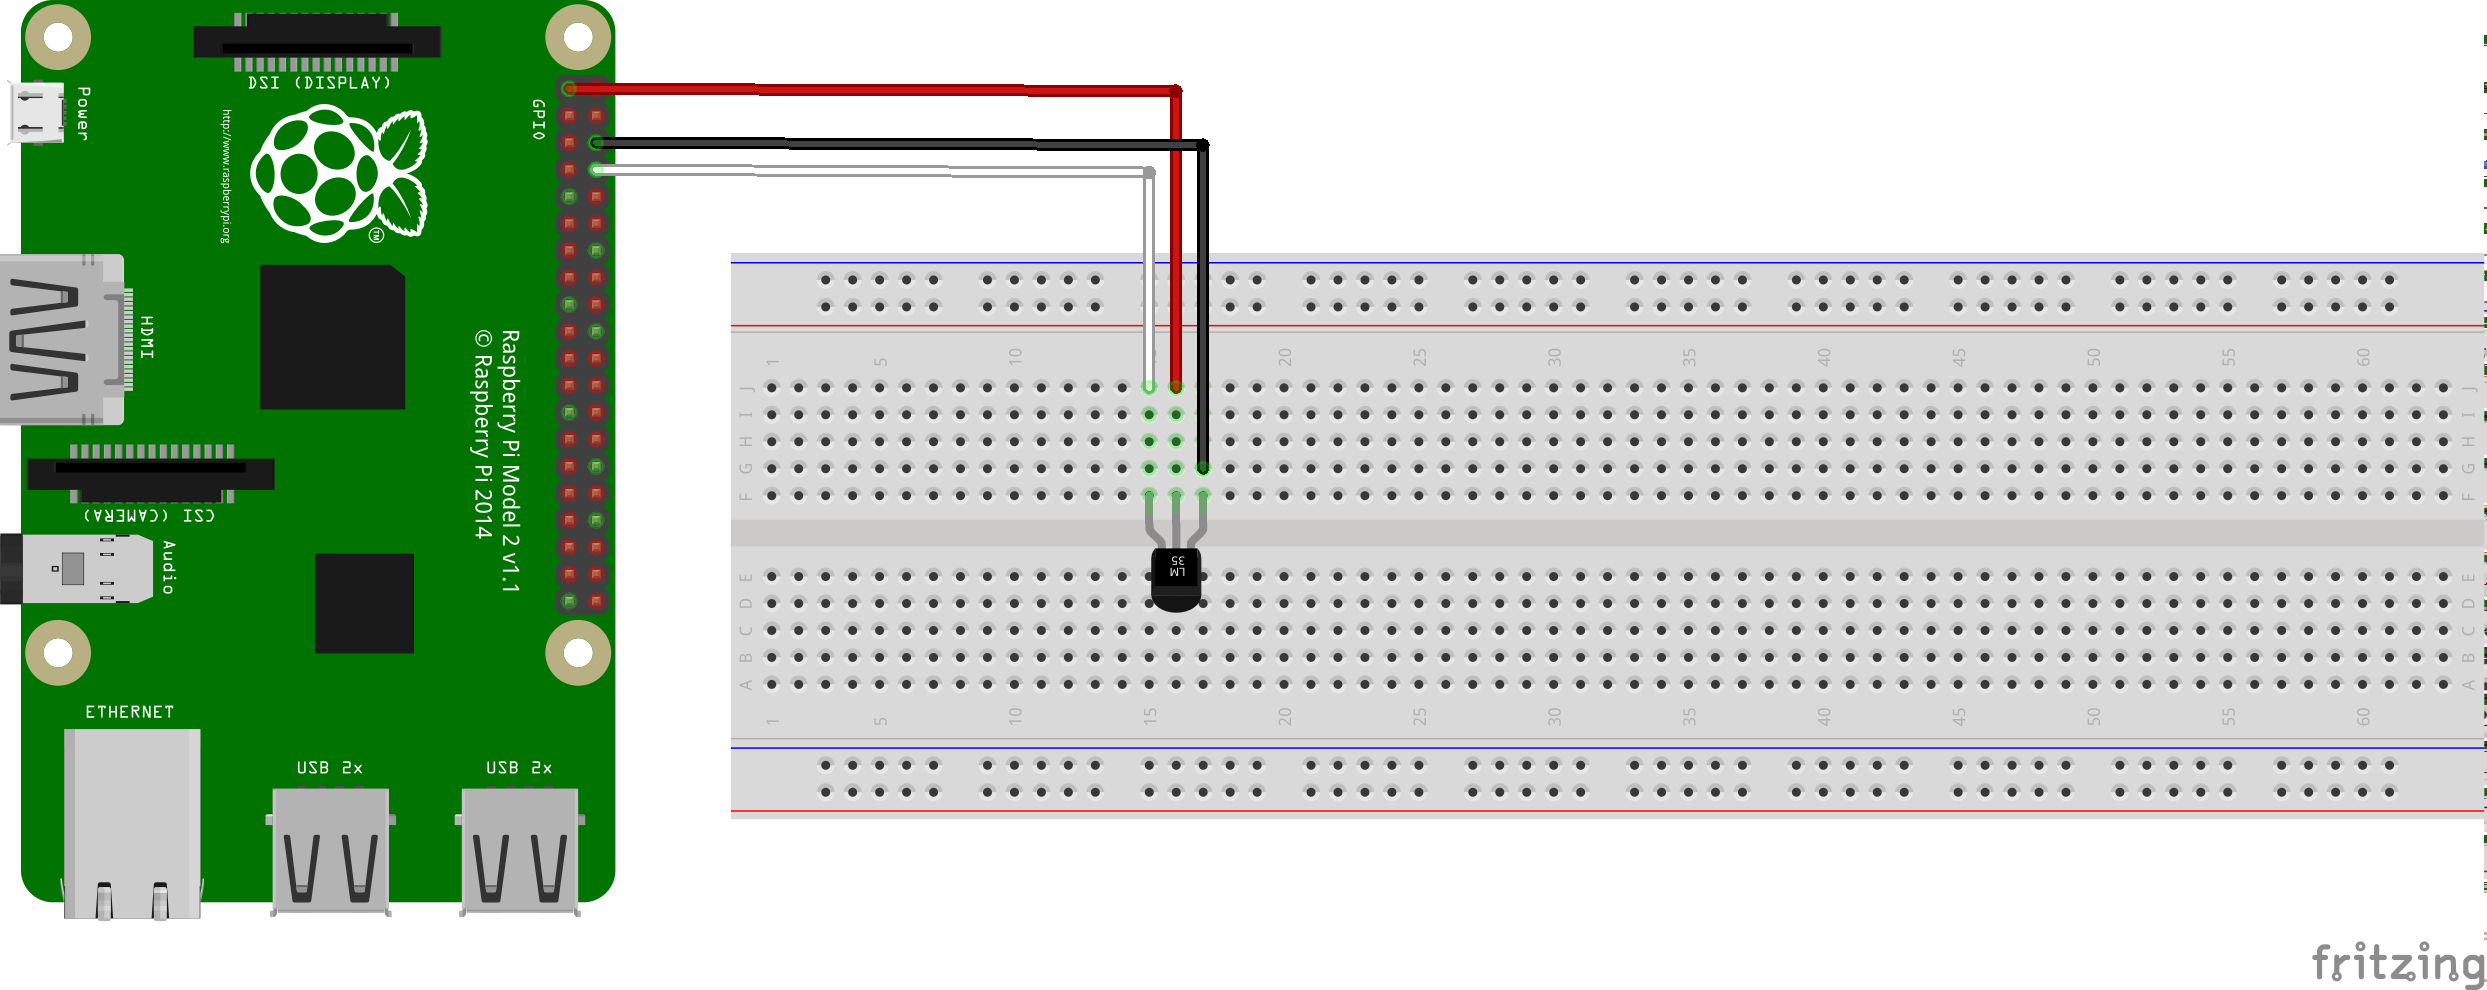
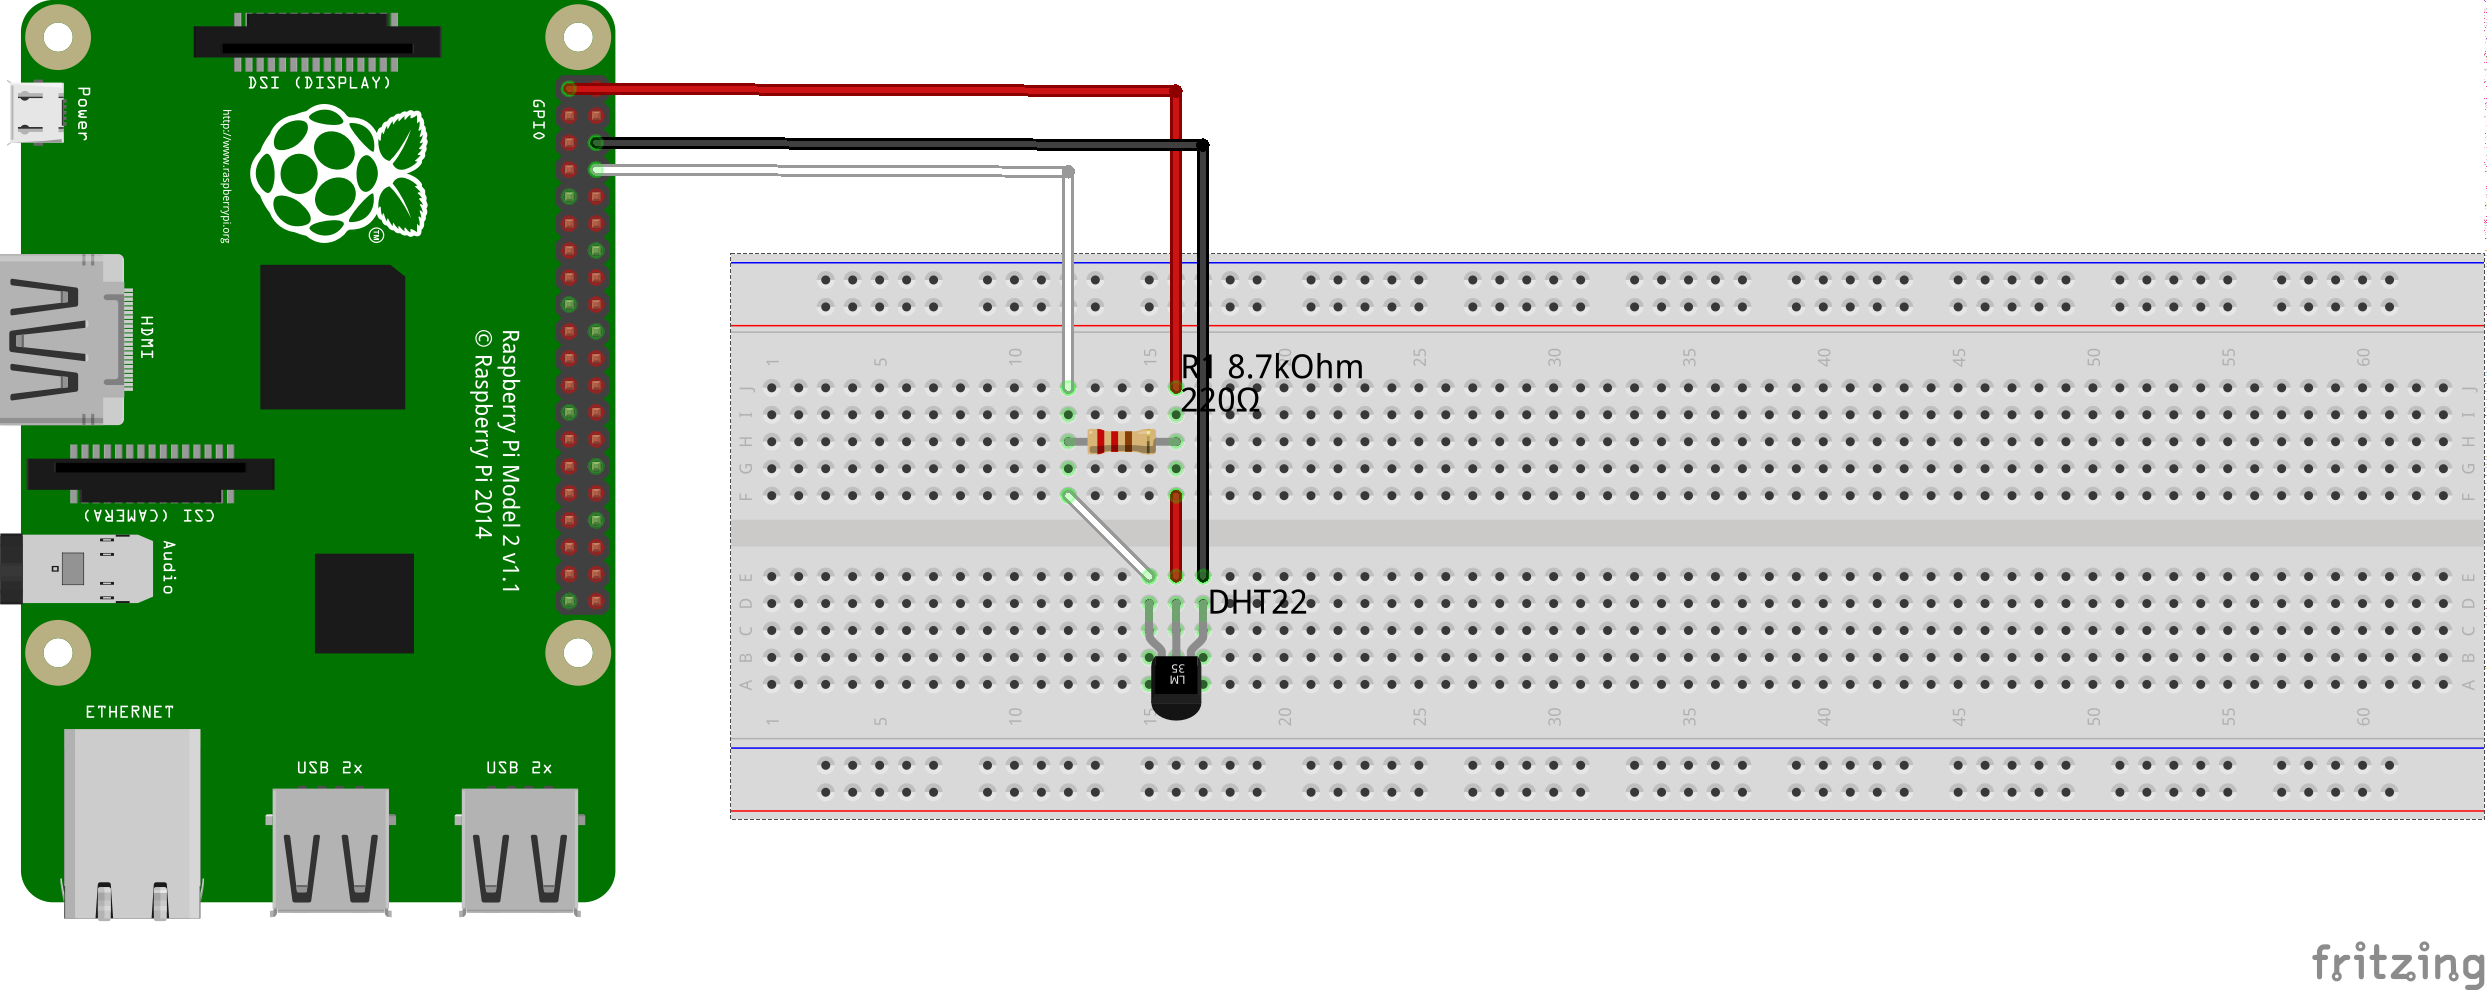
DHT22

Changed region(s): [[0.4025, 0.2424, 0.5573, 0.7273], [0.9908, 0.303, 1.0, 0.8788], [0.4335, 0.1515, 0.4644, 0.1818]]

diff --git a/015-temperature-humidity-sensor/temp-humidity.py b/015-temperature-humidity-sensor/temp-humidity.py
@@ -1,31 +1,28 @@
 #!/usr/bin/python
 # coding=utf-8
 
-# Benoetigte Module werden importiert und eingerichtet
 import RPi.GPIO as GPIO
 import Adafruit_DHT
 import time
 
 sleeptime = 2
 
-# Sensor should be set to Adafruit_DHT.DHT11, Adafruit_DHT.DHT22, or Adafruit_DHT.AM2302.
-DHTSensor = Adafruit_DHT.DHT11
+#DHTSensor = Adafruit_DHT.DHT11
 #DHTSensor = Adafruit_DHT.AM2302
+DHTSensor = Adafruit_DHT.DHT22
 
-GPIO_Pin = 15
+pin = 14
 
 print('STRG +C to stop')
 
 try:
     while(1):
+        humidity, temp = Adafruit_DHT.read_retry(DHTSensor, pin)
 
-        Luftfeuchte, Temperatur = Adafruit_DHT.read_retry(DHTSensor, GPIO_Pin)
-
-        print("-----------------------------------------------------------------")
-        if Luftfeuchte is not None and Temperatur is not None:
-            print('Temperatur = {0:0.1f}°C  | rel. Luftfeuchtigkeit = {1:0.1f}%'.format(Temperatur, Luftfeuchte))
+        if humidity is not None and temp is not None:
+            print('Temperatur = {0:0.1f}°C  | rel. Luftfeuchtigkeit = {1:0.1f}%'.format(temp, humidity))
         else:
-            print('Fehler beim Auslesen - Bitte warten auf nächsten Versuch!')
+            print('Fehler beim Auslesen ')
         print("-----------------------------------------------------------------")
         time.sleep(sleeptime)
 except KeyboardInterrupt:
